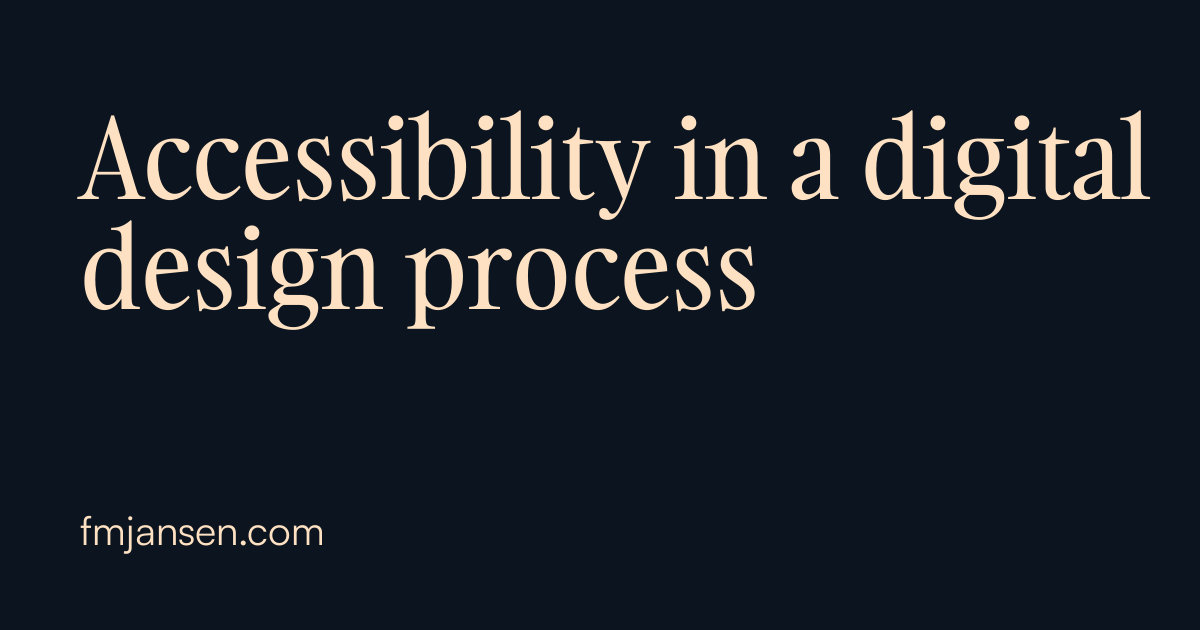
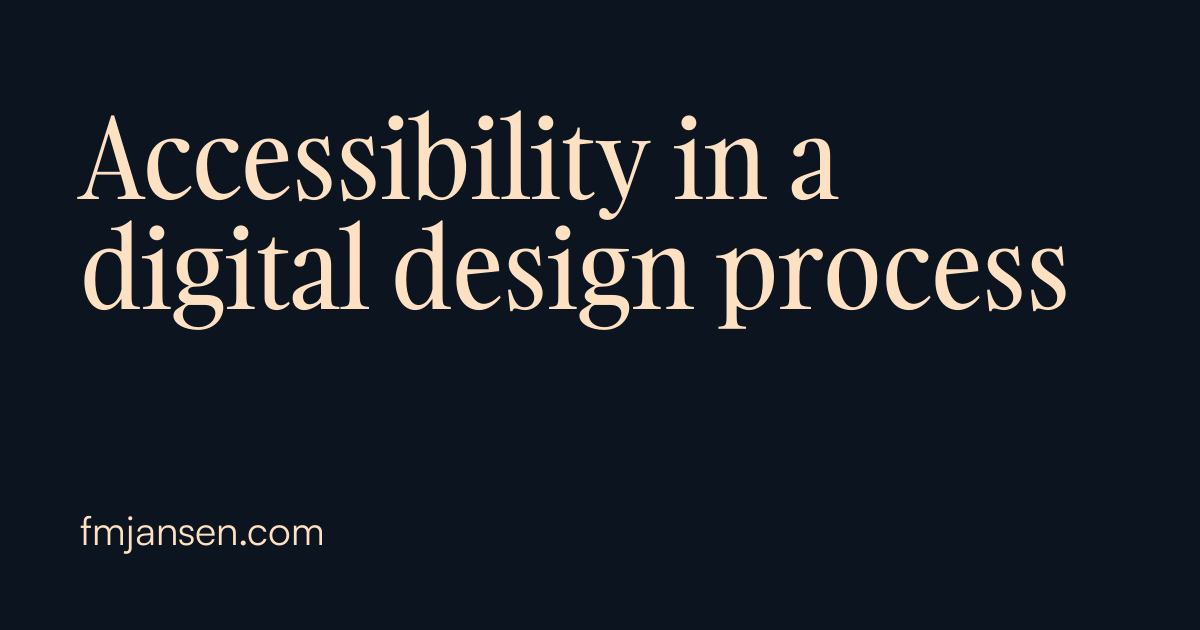
fix margin for og image text

Changed region(s): [[0.1233, 0.3619, 0.8942, 0.5429], [0.7092, 0.181, 0.9558, 0.3619]]

diff --git a/ogimages.js b/ogimages.js
@@ -22,7 +22,7 @@ ctx.textBaseline = "top";
 // Write title
 ctx.font = '110px Gambarino';
 ctx.fillStyle = '#fee1c2';
-wrapText(ctx, title, 80, 80, 1100, 110);
+wrapText(ctx, title, 80, 80, 1050, 110);
 
 // Write date
 ctx.textBaseline = "bottom";
